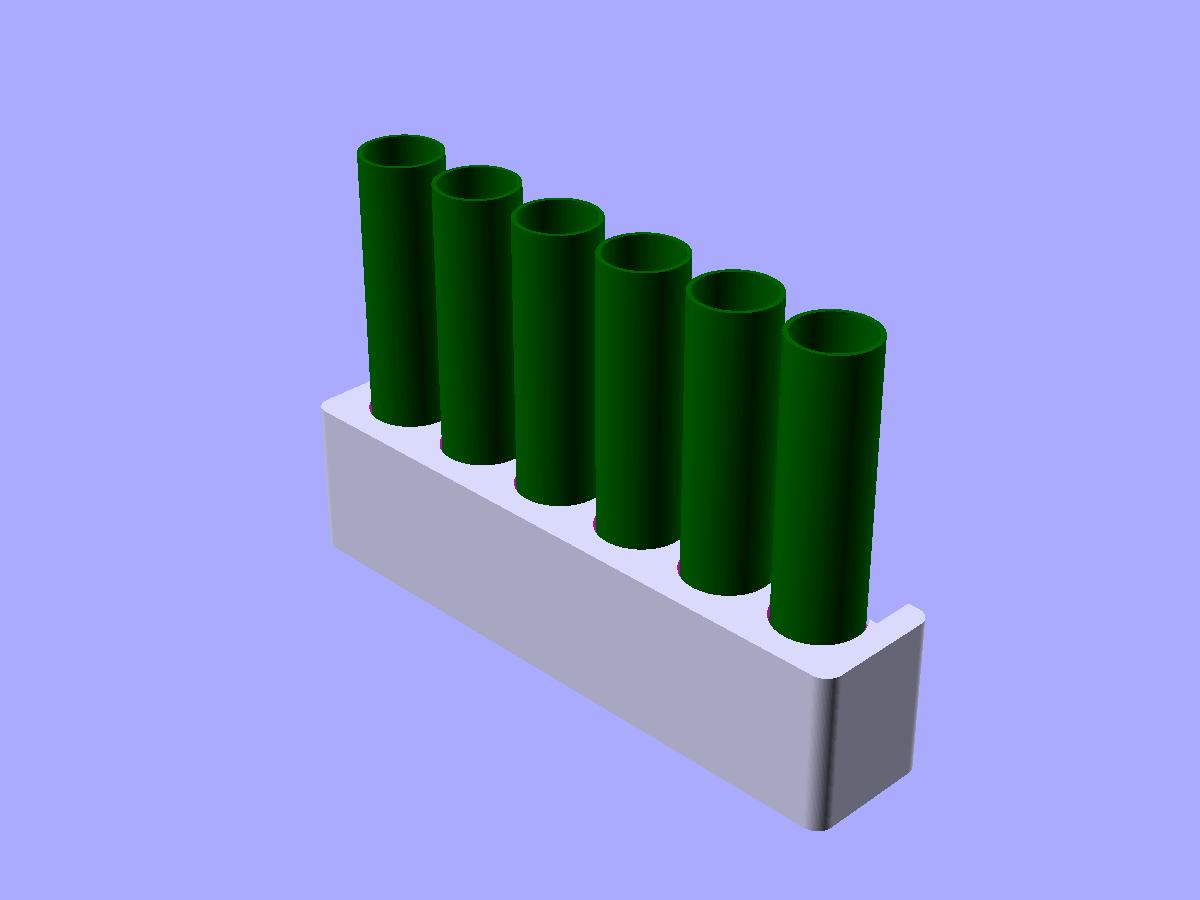
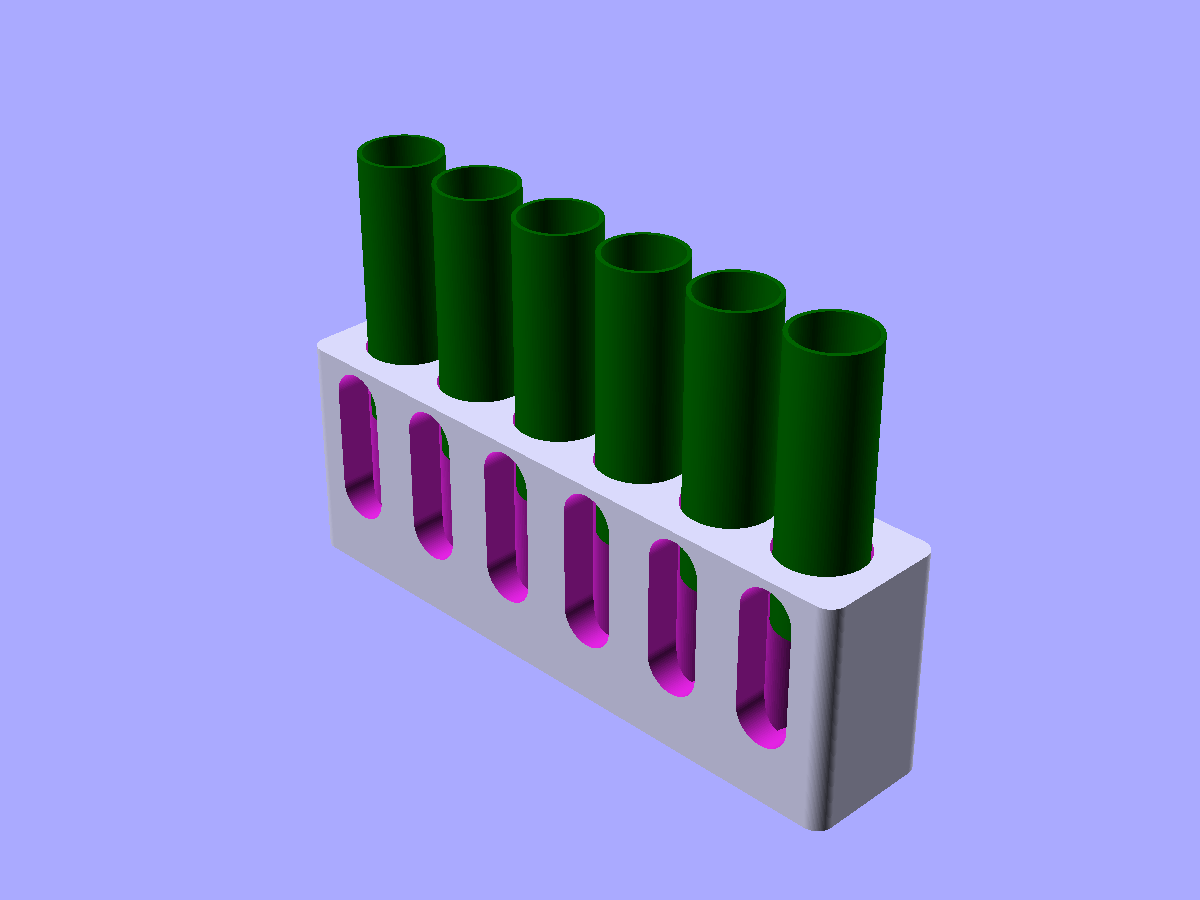
example/battery-holder: vertical finger slots, 80%-height tray
The old design had quarter-cylinder scoops cut across the top edge and a
tray that barely covered half the cell — easy to knock a battery out, and
the doc copy incorrectly called the scoop a half-cylinder. The reference
desk-caddy design has tall rounded-slot windows oriented along the
battery's long axis with the tray rising to ~80% of cell height; the cell
remains visible and pinchable from the side.

- finger_scoop now extrudes a RoundedSlot and rotates it so the capsule's
  long axis runs vertically; signature is
  (at_x, tray_y, slot_w, slot_h, slot_depth, slot_top_z)
- scoop_height joins the equation block; scoop top sits wall_thk below
  the tray top (no magic number, no new Param, no setup() guard)
- slots cut through the -Y face so they face the default beauty-shot
  camera
- AA6Holder tray_depth 28→40 (79% of AA length); Holder18650x4 36→52
  (80% of 18650)
- examples/README entry #1 reworded; display caption refreshed
- BatteryBox-{display,print}.png regenerated

Changed region(s): [[0.2467, 0.3422, 0.8017, 0.84]]

diff --git a/examples/battery-holder.py b/examples/battery-holder.py
@@ -3,6 +3,7 @@ cells, sized to a given battery spec.
 
 Demonstrates (intermediate scope):
 - Equations solving for inter-related dimensions.
+- A shape-library 2D profile (`RoundedSlot`) extruded into a custom cutter.
 - A custom transform applied multiple times (one per cradle).
 - Multi-instantiation of the same cradle geometry.
 - Concrete subclass per battery type + count.
@@ -16,11 +17,11 @@ Run:
 
 from collections import namedtuple
 
-from scadwright import Component, Param, bbox
-from scadwright.boolops import difference, intersection, union
+from scadwright import Component, Param
+from scadwright.boolops import difference, union
 from scadwright.design import Design, run, variant
-from scadwright.primitives import cube, cylinder
-from scadwright.shapes import Tube, rounded_rect
+from scadwright.primitives import cylinder
+from scadwright.shapes import RoundedSlot, Tube, rounded_rect
 from scadwright.transforms import transform
 
 
@@ -47,25 +48,31 @@ CR123A  = BatterySpec(d=17.0, length=34.5, label="CR123A")
 
 
 @transform("finger_scoop", inline=True)
-def finger_scoop(node, *, at_x, tray_y, width, depth, top_z):
-    """Cut a semicircular notch into the top-front edge of the +y outer
-    wall, so the user can pinch the battery from the side and lift it out.
+def finger_scoop(node, *, at_x, tray_y, slot_w, slot_h, slot_depth, slot_top_z):
+    """Cut a vertical rounded-slot finger window through an outer wall,
+    aligned with the battery's long axis, so the user can see the cell
+    and pinch it out from the side.
 
-    For the scoop to be functional, `depth` must be greater than the wall
-    thickness between the cradle well and the outer wall — otherwise it
-    stops short and exposes no battery. Typical sizing: wall_thk +
-    clearance + 2-3mm of penetration into the well.
+    The cutter is a `RoundedSlot` (capsule) extruded normal to the wall.
+    Its long axis runs along z (the battery axis); its short axis runs
+    along x. It spans from `slot_top_z - slot_h` up to `slot_top_z`.
 
-    `at_x` is the x-position of the cradle (the scoop is centered on it).
+    For the window to actually expose the cell, `slot_depth` must exceed
+    the wall thickness between the cradle well and the outer wall
+    (`wall_thk + side_clearance` in the holder below) with a few mm of
+    margin to read as a visible cutout rather than a shallow notch.
+
+    `at_x` is the cradle's x-position (the slot is centered on it).
     `tray_y` is the outer-wall y-coordinate (the surface to notch).
-    `width` is scoop width along x. `depth` is radial depth of the cut
-    (penetration into the tray from the outer wall, and how far down from
-    `top_z` the notch extends). `top_z` is the z of the tray's top face.
+    `slot_w` / `slot_h` are the slot's width (x) and height (z).
+    `slot_depth` is penetration into the tray, measured from `tray_y`
+    inward. `slot_top_z` is the z-coordinate of the slot's top cap.
     """
     cutter = (
-        cylinder(h=width, r=depth, center=True)
-        .rotate([0, 90, 0])
-        .translate([at_x, tray_y, top_z])
+        RoundedSlot(length=slot_h, width=slot_w)
+        .linear_extrude(height=slot_depth + EPS)
+        .rotate([-90, -90, 0])  # local (length=X, width=Y, depth=Z) → world (width=X, depth=Y, length=Z)
+        .translate([at_x, tray_y - EPS, slot_top_z - slot_h / 2])
     )
     return difference(node, cutter)
 
@@ -77,7 +84,7 @@ class BatteryHolder(Component):
     spec = Param(BatterySpec)
     count = Param(int, positive=True)
     equations = [
-        "wall_thk, clearance, end_clearance, side_clearance, floor_thk, tray_depth, scoop_width, scoop_depth > 0",
+        "wall_thk, clearance, end_clearance, side_clearance, floor_thk, tray_depth, scoop_width, scoop_height, scoop_depth > 0",
         "corner_r >= 0",
     ]
 
@@ -116,9 +123,10 @@ class BatteryHolder(Component):
 
         for x in self.cradle_positions:
             carved = carved.finger_scoop(
-                at_x=x, tray_y=l / 2,
-                width=self.scoop_width, depth=self.scoop_depth,
-                top_z=h,
+                at_x=x, tray_y=-l / 2,
+                slot_w=self.scoop_width, slot_h=self.scoop_height,
+                slot_depth=self.scoop_depth,
+                slot_top_z=h - self.wall_thk,
             )
         return carved
 
@@ -143,10 +151,11 @@ class AA6Holder(BatteryHolder):
     end_clearance = 3.0
     side_clearance = 3.0
     floor_thk = 2.0
-    tray_depth = 28.0
+    tray_depth = 40.0
     corner_r = 3.0
-    scoop_width = 15.0
-    scoop_depth = 7.5
+    scoop_width = 10.0
+    scoop_height = 28.0
+    scoop_depth = 8.0
 
 
 class Holder18650x4(BatteryHolder):
@@ -157,10 +166,11 @@ class Holder18650x4(BatteryHolder):
     end_clearance = 4.0
     side_clearance = 4.0
     floor_thk = 2.5
-    tray_depth = 36.0
+    tray_depth = 52.0
     corner_r = 4.0
-    scoop_width = 18.0
-    scoop_depth = 9.0
+    scoop_width = 12.0
+    scoop_height = 38.0
+    scoop_depth = 10.0
 
 
 # =============================================================================

diff --git a/examples/README.md b/examples/README.md
@@ -29,17 +29,17 @@ A plate with two holes. No Components, no Design -- just primitives, booleans, a
 
 ## 1. [`battery-holder.py`](battery-holder.py)
 
-A desk-tray battery caddy: N cylindrical cells of a chosen type sit in wells along a rounded-corner tray. Each well has a half-cylinder finger-scoop in the outer wall so you can pinch and lift a battery out.
+A desk-tray battery caddy: N cylindrical cells of a chosen type sit in wells along a rounded-corner tray. Each well has a tall rounded-slot finger window in the outer wall -- oriented along the battery's long axis -- so you can see the cell and pinch it out from the side.
 
+- Shape-library 2D profile (`RoundedSlot`) extruded into a custom cutter
 - Custom transform (`@transform("finger_scoop")`) applied once per cradle
-- `params` declaring six shared-type floats
 - Per-battery concrete subclasses (`AA6Holder`, `Holder18650x4`)
 - Dimension derivation in `setup`; multi-instantiation from a computed `cradle_positions` list
 - Print and display `@variant`s
 
 ![Battery holder](images/BatteryBox-display.png)
 
-*display variant -- six ghost AA cells protruding above the tray to illustrate how the finger-scoops line up*
+*display variant -- six ghost AA cells seated in their cradles, tops protruding above an 80%-height tray, with the rounded-slot windows revealing the cells from the side*
 
 ---
 
